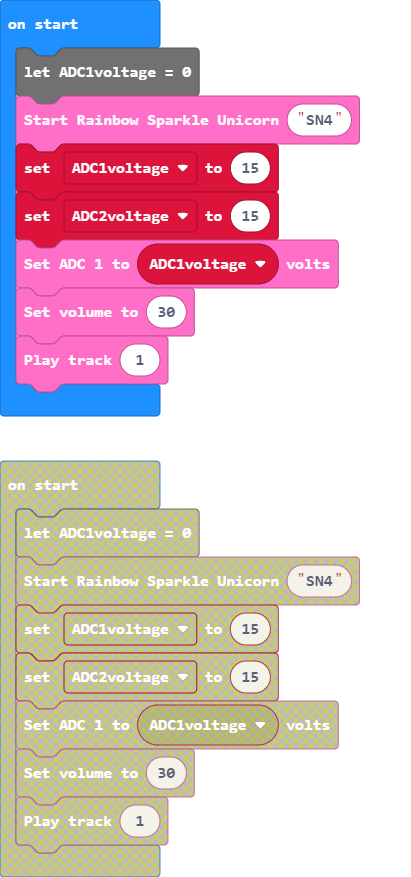
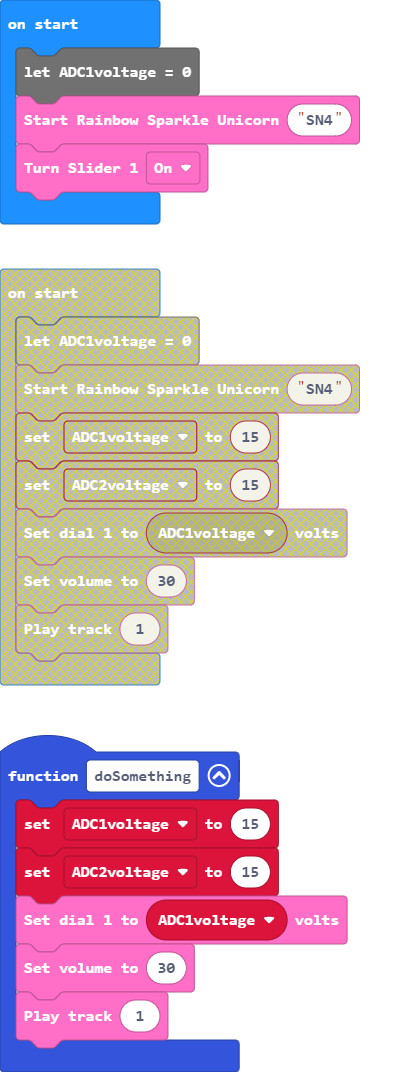
Update pxt.json, main.blocks, main.ts, ESP32.ts

diff --git a/ESP32.ts b/ESP32.ts
@@ -63,7 +63,7 @@ let Encoder2value  = 0;
      * Set the DAC to a certain value.
      * @value the value of the DAC output, eg: 194
      */
-    //% subcategory="ADC / DAC" 
+    //% subcategory="Expert" 
     //% block="Set DAC 1 to $value"
     //% value.min=0 value.max=255
     export function DAC1(value: number) {
@@ -74,12 +74,23 @@ let Encoder2value  = 0;
     }
 
      /**
-     * Start reading values from slider 1.
+     * Turn slider 1 on/off.
      */
     //% subcategory="Sliders / Dials" 
-    //% block="Start/Stop slider 1 $state"
+    //% block="Turn Slider 1 $state"
+        //% weight=60
     export function startSlider1(state: OnOff) {
      sendMessage("U1," + state)
+    }
+
+     /**
+     * Turn slider 2 on/off.
+     */
+    //% subcategory="Sliders / Dials" 
+    //% block="Turn Slider 2 $state"
+        //% weight=65
+    export function startSlider2(state: OnOff) {
+     sendMessage("U2," + state)
     }
 
 }

diff --git a/main.ts b/main.ts
@@ -4,6 +4,13 @@ input.onButtonPressed(Button.A, function () {
 RainbowSparkleUnicorn.dial1(ADC1voltage)
     RainbowSparkleUnicorn.setPulse(Servo.S14, randint(100, 505))
 })
+function doSomething () {
+    ADC1voltage = 15
+    ADC2voltage = 15
+    RainbowSparkleUnicorn.dial1(ADC1voltage)
+    RainbowSparkleUnicorn.setVolume(30)
+    RainbowSparkleUnicorn.playTrack(1)
+}
 input.onButtonPressed(Button.B, function () {
     for (let index = 0; index < 50; index++) {
         RainbowSparkleUnicorn.dial2(randint(0, 30))
@@ -12,10 +19,7 @@ input.onButtonPressed(Button.B, function () {
         basic.pause(1000)
     }
 })
+let ADC2voltage = 0
 let ADC1voltage = 0
 RainbowSparkleUnicorn.start("SN4")
-ADC1voltage = 15
-let ADC2voltage = 15
-RainbowSparkleUnicorn.dial1(ADC1voltage)
-RainbowSparkleUnicorn.setVolume(30)
-RainbowSparkleUnicorn.playTrack(1)
+RainbowSparkleUnicorn.startSlider1(OnOff.ON)
